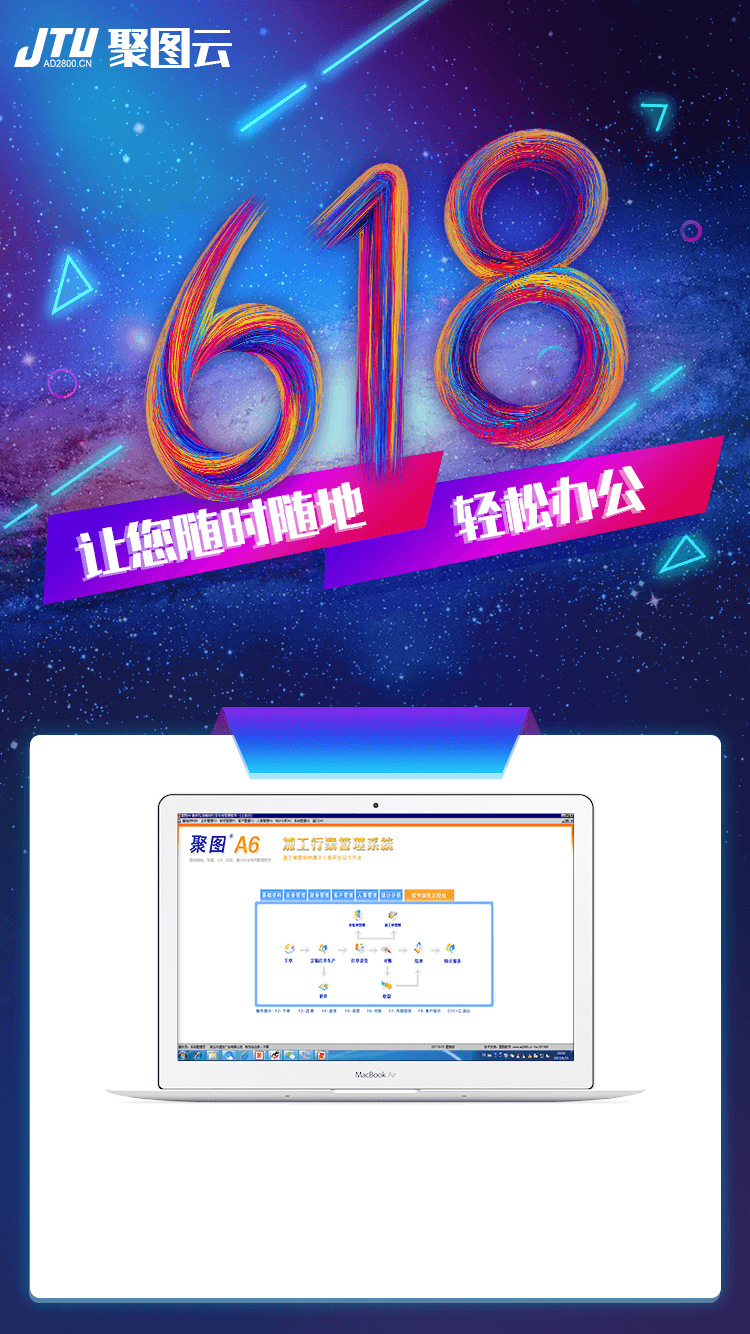
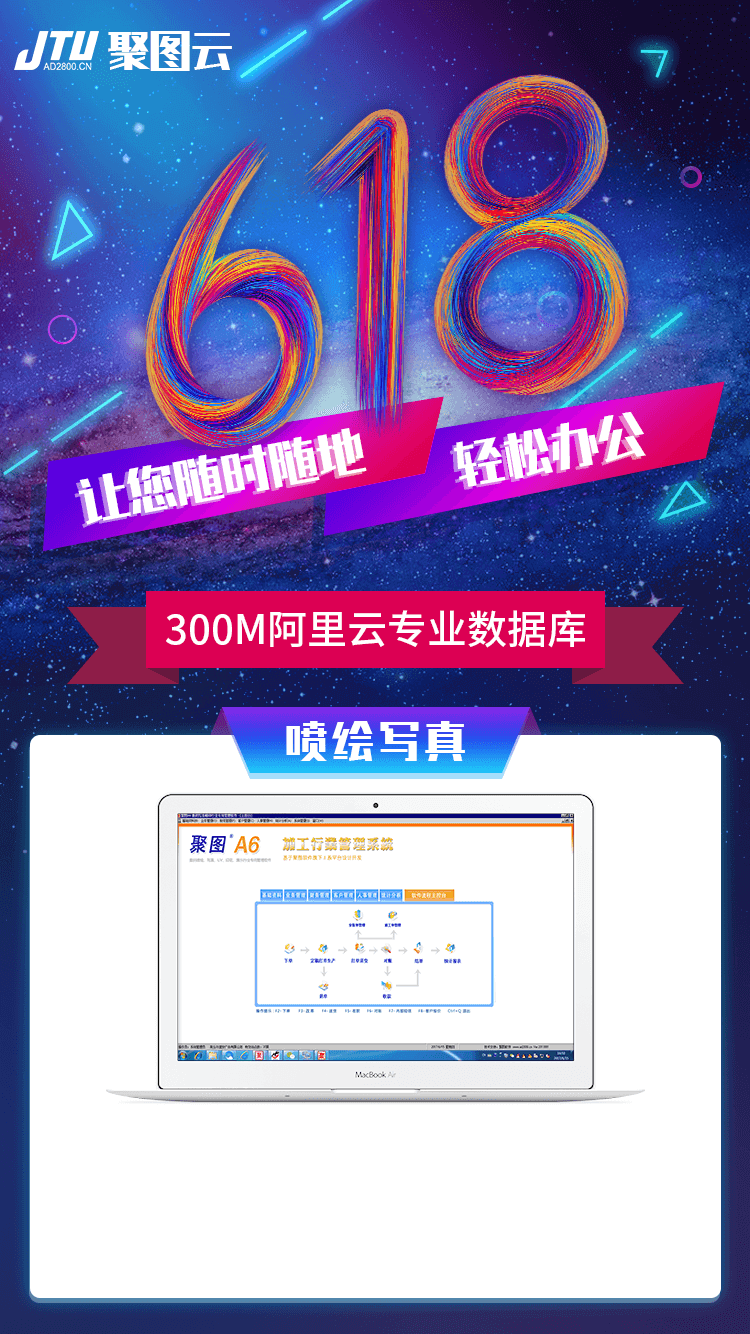
update

diff --git a/mobile/css/active.css b/mobile/css/active.css
@@ -9,14 +9,14 @@ a, img {
     border: 0;
 }
 
-body {
+html body {
     font: 12px/180% Arial, Helvetica, sans-serif, "新宋体";
     color:#fff;
 }
 
 img {
     width: 100%;
-    height: 100%;
+    height:100%;
 }
 
 img[width], img[height] {
@@ -143,18 +143,17 @@ html.fsvs.demo #fsvs-body > .slide pre {
     padding:0 10px;
     text-align: center;
     color:#fff;
-    background: url(../image/tel.png)no-repeat 40px 12px;
+    background: url(../image/tel.png)no-repeat 18px 12px;
     background-size: 18px 18px;
 }
 .tel h2{
     font-weight:normal;
-    letter-spacing: 5px;
     margin-right:10px;
     float: right;
 }
 .tel:hover{
     color:#21c7bd;
-    background: url(../image/tel1.png)no-repeat 40px 12px;
+    background: url(../image/tel1.png)no-repeat 18px 12px;
     background-size: 18px 18px;
 }
 .move{
@@ -164,8 +163,7 @@ html.fsvs.demo #fsvs-body > .slide pre {
     width: 100%;
     height:auto;
     position:absolute;
-    bottom:2.3rem;
-    font-size: 12px;
+    bottom:3.5rem;
 }
 
 .left{
@@ -175,9 +173,10 @@ html.fsvs.demo #fsvs-body > .slide pre {
 }
 .left h2{
     color:#3598f5;
+    font-size: 1rem;
 }
 .left p:nth-of-type(1){
-    color:#ff4c79
+    color:#ff4c79;
 }
 .left .limit{
     width: 95px;
@@ -188,7 +187,6 @@ html.fsvs.demo #fsvs-body > .slide pre {
 }
 .left em{
     font-style: normal;
-    font-size: 1rem;
     font-weight: bold;
 }
 .right{
@@ -199,13 +197,103 @@ html.fsvs.demo #fsvs-body > .slide pre {
 
 }
 .right ul li{
-    width: 60px;
-    height: 1rem;
-    line-height:1rem;
+    width: 5rem;
+    height: 1.2rem;
+    line-height:1.2rem;
     float: left;
     margin:5px 10px 0 0;
     background: #20aef6;
-    border-radius:5px;
-    -moz-border-radius:5px ;
-    -webkit-border-radius:5px;
+    border-radius:0.3rem;
+    -moz-border-radius:0.3rem ;
+    -webkit-border-radius:0.3rem;
 }
+.wenan-top{
+    width: 100%;
+    height:auto;
+    position:absolute;
+    top:18rem;
+}
+.intro{
+    width:100%;
+    height:auto;
+    padding:0 4rem;
+    color:#39a1ff;
+    text-align: left;
+    position: absolute;
+    top:9rem;
+
+}
+.attention{
+    position: absolute;
+    bottom:8rem;
+    width:100%;
+    text-align: center;
+    letter-spacing:0.2rem;
+}
+html{
+    font-size: 14px;
+}
+@media only screen and (max-width: 320px) {
+    html {
+        font-size:8px;
+    }
+   .wenan{
+       bottom:1rem;
+   }
+    .wenan  .left{
+        margin-top:0.5rem;
+    }
+   .wenan  .right{
+       margin-bottom:1rem
+   }
+   .wenan-top{
+       top:13rem;
+   }
+   .intro{
+       top:6.5rem;
+       line-height:1.5rem;
+       margin-left:1rem;
+       padding:0 2rem;
+   }
+    .attention{
+        bottom:6rem;
+    }
+}
+    @media only screen and (max-width: 360px) {
+        html {
+            font-size:12px;
+        }
+        .right{
+            margin-top:0.6rem;
+        }
+    }
+    @media only screen and (min-width:768px) {
+        html {
+            font-size: 18px;
+        }
+        .wenan{
+            bottom:3rem;
+        }
+        .left{
+            padding-left:3rem;
+        }
+        .left p{
+            font-size: 14px;
+            margin:0.5rem 0;
+        }
+        .wenan .right ul {
+            width:15rem;
+        }
+        .right ul li{
+            margin:0.5rem 1rem 0 0;
+        }
+        .wenan-top{
+            top:13rem;
+        }
+        .intro{
+            top:6.5rem;
+            line-height:1.5rem;
+            margin-left:1rem;
+            padding:0 2rem;
+        }
+    }

diff --git a/618.html b/618.html
@@ -22,7 +22,7 @@
             <img src="618image/jutuyun.png" />
             <div class="wenan">
                 <div class="left">
-                    <h2>喷绘王-A6</h2>
+                    <h2>聚图云-A6</h2>
                     <p><strong>618体验价:</strong><em>58元</em>/月/一用户</p>
                     <span class="limit"></span>
                 </div>
@@ -39,22 +39,64 @@
         </div>
     </div>
     <div class="slide">
-        <div>
+        <div class="move">
             <img src="618image/product.png"/>
+            <div class="wenan-top">
+                <div class="left">
+                    <h2>聚图云 赛恩-X3</h2>
+                    <p><strong>618体验价:</strong><em>58元</em>/月/一用户</p>
+                    <span class="limit"></span>
+                </div>
+                <div class="right">
+                    <ul>
+                        <li>业务管理</li>
+                        <li>财务管理</li>
+                        <li>人事管理</li>
+                        <li>统计管理</li>
+                        <li>客户管理</li>
+                        <li>外协管理</li>
+                    </ul>
+                </div>
+            </div>
+            <div class="wenan">
+                <div class="left">
+                    <h2>聚图云 凯印-K3</h2>
+                    <p><strong>618体验价:</strong><em>58元</em>/月/一用户</p>
+                    <span class="limit"></span>
+                </div>
+                <div class="right">
+                    <ul>
+                        <li>前台接待</li>
+                        <li>应收管理</li>
+                        <li>客户积分</li>
+                        <li>统计管理</li>
+                        <li>财务积分</li>
+                        <li>系统维护</li>
+                    </ul>
+                </div>
+            </div>
         </div>
     </div>
     <div class="slide">
         <div class="move">
             <img src="618image/erweima.png"  />
-            <div class="des">
-
+            <div class="intro">
+                <p>1.随时随地可以办公，能上网即可运用。</p>
+                <p>2.安装维护方便，不需要专业网管维护局域网。</p>
+                <p>3.前期投入少，步署快，即开通即可用。</p>
+                <p>4.专业级阿里云，不用担心主机坏掉数据丢失。</p>
+                <p>5.不用担心主机被偷，客户数据丢失。</p>
+                <p>6.数据存放于云空间，有效保证财务安全</p>
+                <p>7.产品终身免费升级，永远使用最新版本</p>
+                <p>8.PC端+手机端同步,开单、车间产值同步统计</p>
             </div>
+            <div class="attention"><p>[扫码关注聚图公众号]</p></div>
         </div>
     </div>
 </div>
 <div class="num">
     <a class="tel" href="tel:020-82303980">
-        <h2>联系试用</h2>
+        <h2>020-82303980</h2>
     </a>
 </div>
 <!-- 代码 结束 -->
